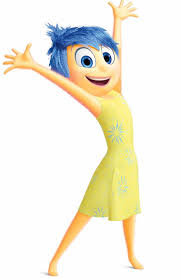
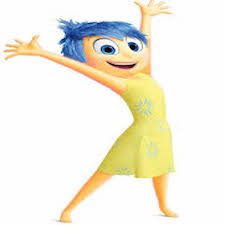
update sizes

diff --git a/Affective Computing/EmoVoice/README.md b/Affective Computing/EmoVoice/README.md
@@ -4,7 +4,7 @@
 
 Joy | Sadness | Anger | Disgust | Fear | Surprise
 |:--: | :--: | :--: | :--: | :--: | :--: |
-<img src="pics/joy.jpg"/> | <img src="pics/sadness.jpg"/> | <img src="pics/anger.jpg"/> | <img src="pics/disgust.jpg"/> | <img src="pics/fear.jpg"/> | <img src="pics/surprise.jpg" width="250px" height="200px"/>
+<img src="pics/joy.jpg"/> | <img src="pics/sadness.jpg"/> | <img src="pics/anger.jpg"/> | <img src="pics/disgust.jpg"/> | <img src="pics/fear.jpg"/> | <img src="pics/surprise.jpg"/>
 
 ---
 
